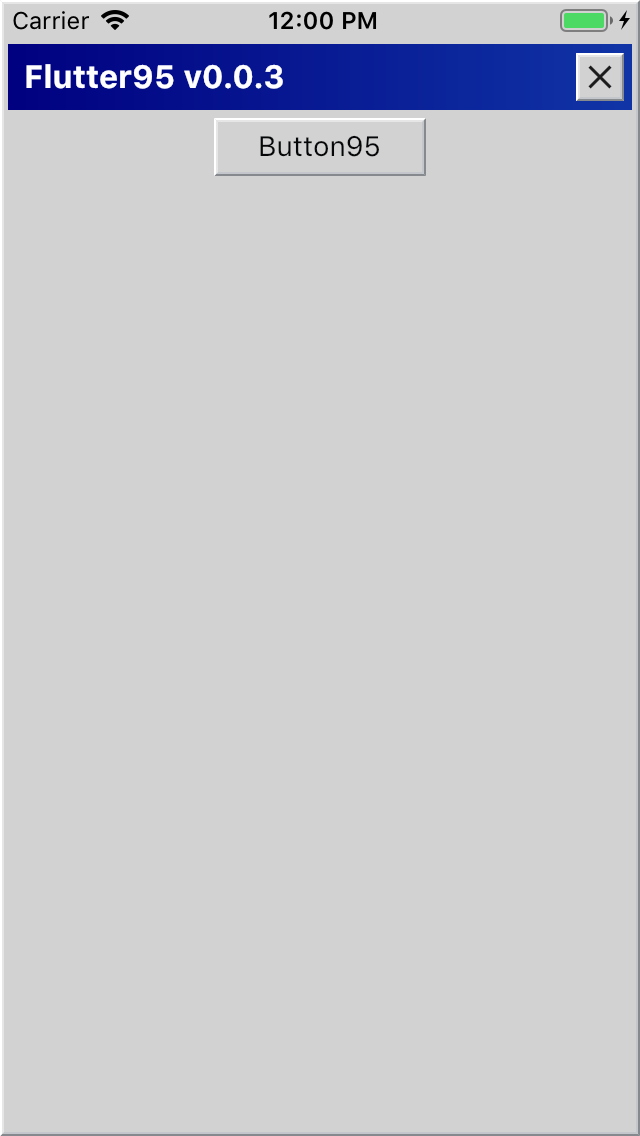
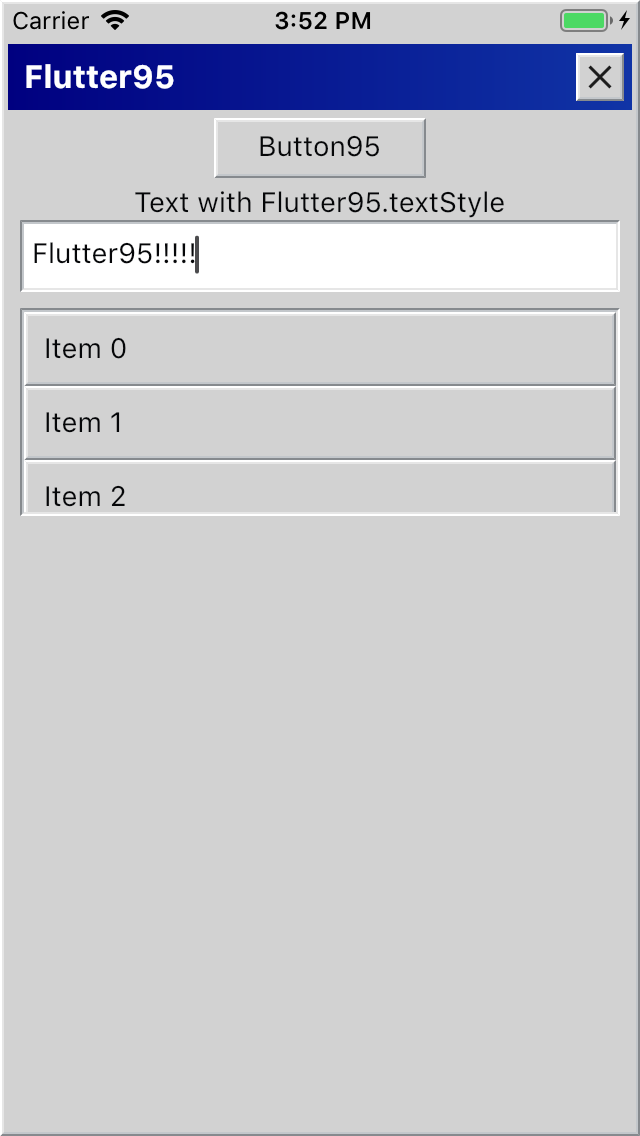
0.0.4 improvements

Changed region(s): [[0.0312, 0.154, 0.9688, 0.4621], [0.4062, 0.0, 0.5938, 0.0308], [0.2812, 0.0616, 0.4375, 0.0924]]

diff --git a/example/lib/main.dart b/example/lib/main.dart
@@ -12,7 +12,7 @@ class Flutter95App extends StatelessWidget {
       debugShowCheckedModeBanner: false,
       color: Flutter95.background,
       home: Scaffold95(
-        title: 'Flutter95 v0.0.3',
+        title: 'Flutter95',
         body: Column(
           children: <Widget>[
             Button95(
@@ -25,10 +25,44 @@ class Flutter95App extends StatelessWidget {
               style: Flutter95.textStyle,
             ),
             Padding(
-              padding: const EdgeInsets.all(8.0),
+              padding: const EdgeInsets.symmetric(horizontal: 8.0),
               child: TextField95(),
             ),
+            _buildListView(),
           ],
+        ),
+      ),
+    );
+  }
+
+  /// Build a ListView wrapping it in [Elevation95] with [Elevation95Type.down].
+  /// This will create a "deep" container.
+  /// Then wrap each item with [Elevation95Type.up] to create an up effect.
+  Padding _buildListView() {
+    return Padding(
+      padding: const EdgeInsets.symmetric(
+        horizontal: 8.0,
+        vertical: 8.0,
+      ),
+      child: Elevation95(
+        type: Elevation95Type.down,
+        child: SizedBox(
+          height: 100,
+          child: ListView.builder(
+            padding: EdgeInsets.zero,
+            itemCount: 100,
+            itemBuilder: (context, index) {
+              return Elevation95(
+                child: Padding(
+                  padding: const EdgeInsets.all(8.0),
+                  child: Text(
+                    'Item $index',
+                    style: Flutter95.textStyle,
+                  ),
+                ),
+              );
+            },
+          ),
         ),
       ),
     );

diff --git a/lib/src/text_field95.dart b/lib/src/text_field95.dart
@@ -4,6 +4,7 @@ import 'package:flutter95/src/utils.dart';
 import 'globals.dart';
 
 class TextField95 extends StatefulWidget {
+  // TODO: Expose more properties from TextField
   const TextField95({
     Key key,
     this.controller,

diff --git a/lib/flutter95.dart b/lib/flutter95.dart
@@ -4,3 +4,4 @@ export 'src/button95.dart';
 export 'src/globals.dart';
 export 'src/scaffold95.dart';
 export 'src/text_field95.dart';
+export 'src/utils.dart';

diff --git a/README.md b/README.md
@@ -38,6 +38,35 @@ Button95(
 )
 ```
 
+#### TextField95
+
+Material text field styled as a Windows95 text field.
+
+```dart
+TextField95()
+```
+
+#### Elevation95
+
+Creates an effect of deepness and elevation around Widgets.
+
+```dart
+Elevation95(
+  child: Text('Elevated Text')
+)
+```
+
+#### Flutter95.textStyle
+
+TextStyle ready to use that copies the Windows95 text style.
+
+```dart
+Text(
+  'Text with Flutter95.textStyle',
+  style: Flutter95.textStyle,
+);
+```
+
 ### Acknowledgments
 
 Heavily inspired by [React95](https://github.com/arturbien/React95).

diff --git a/CHANGELOG.md b/CHANGELOG.md
@@ -1,3 +1,8 @@
+## [0.0.4] - 2020/06/18
+
+* Elevation95
+* TextField95
+
 ## [0.0.3] - 2020/06/18
 
 * Button95
